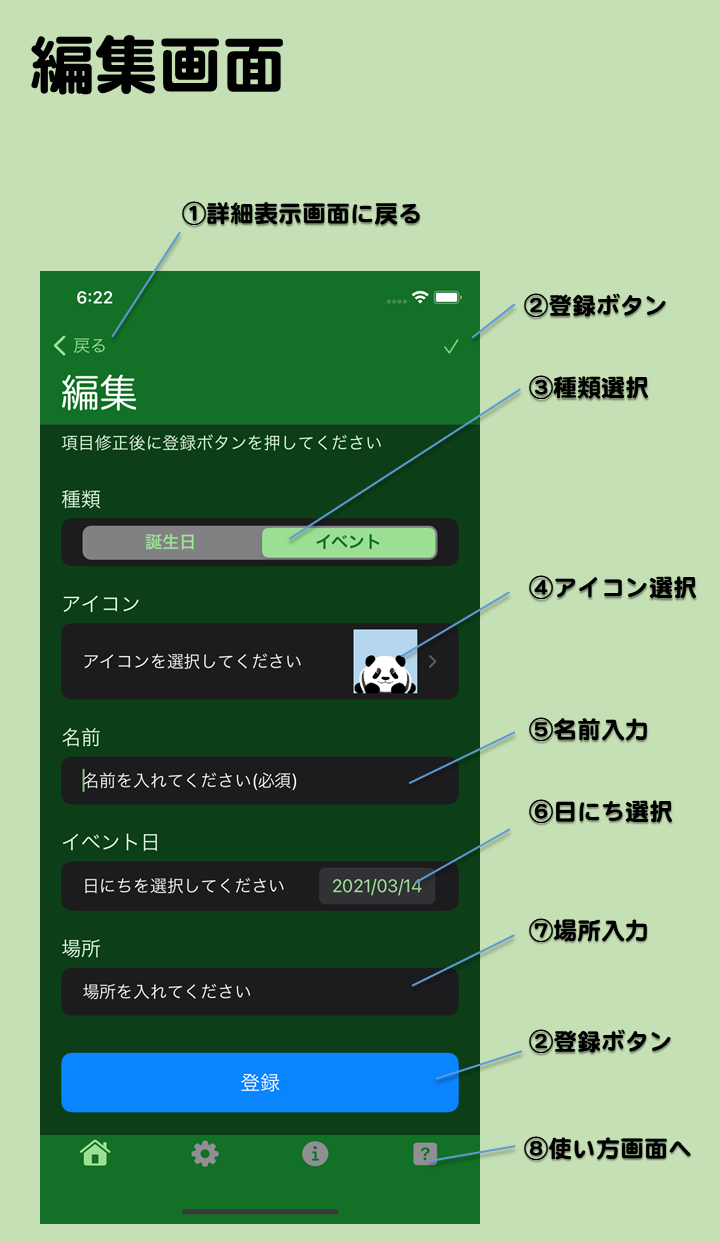
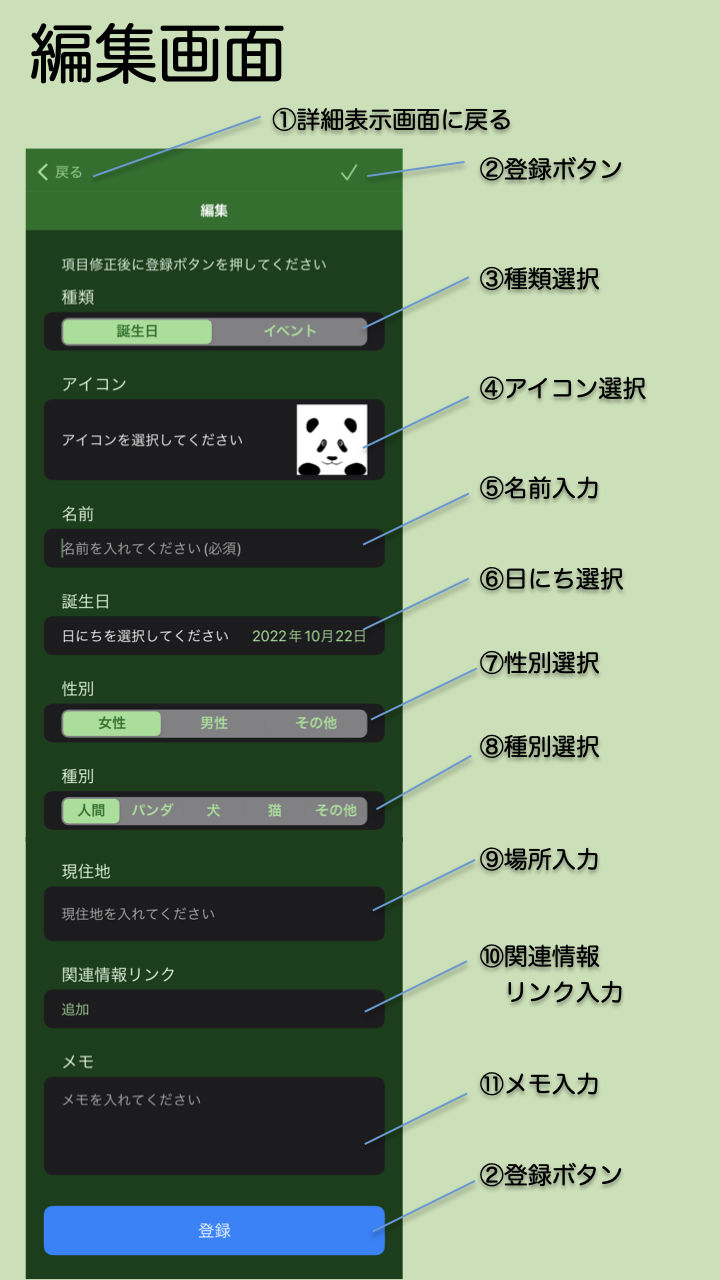
update panda birthday online manual v3.3

diff --git a/pandabirthday/v3_3/help_addPage.html b/pandabirthday/v3_3/help_addPage.html
@@ -43,26 +43,6 @@
   <body id="body">
     <p></p>
     <img src="help_addpage.png" usemap="#ImageMap" alt="add page image" title="add_page ">
-    <map name="ImageMap">
-      <area shape="rect" coords="171,187,432,249" href="#1" alt="" />
-      <area shape="rect" coords="46,301,229,355" href="#1" alt="" />
-      <area shape="rect" coords="504,262,698,328" href="#2" alt="" />
-      <area shape="rect" coords="402,310,463,369" href="#2" alt="" />
-      <area shape="rect" coords="47,467,445,541" href="#3" alt="" />
-      <area shape="rect" coords="500,384,715,465" href="#3" alt="" />
-      <area shape="rect" coords="48,576,442,671" href="#4" alt="" />
-      <area shape="rect" coords="509,509,717,592" href="#4" alt="" />
-      <area shape="rect" coords="49,687,446,780" href="#5" alt="" />
-      <area shape="rect" coords="508,637,718,720" href="#5" alt="" />
-      <area shape="rect" coords="43,802,445,879" href="#6" alt="" />
-      <area shape="rect" coords="513,745,718,820" href="#6" alt="" />
-      <area shape="rect" coords="43,901,444,983" href="#7" alt="" />
-      <area shape="rect" coords="520,852,723,921" href="#7" alt="" />
-      <area shape="rect" coords="49,1007,452,1076" href="#2" alt="" />
-      <area shape="rect" coords="520,938,727,1021" href="#2" alt="" />
-      <area shape="rect" coords="358,1097,448,1148" href="#9" alt="" />
-      <area shape="rect" coords="504,1069,724,1138" href="#8" alt="" />
-    </map>
     <dl>
     <dt>新規登録画面とは</dt>
     <dd>メイン画面で追加ボタンをタップして移動してくる画面です。ユーザーが自分で好きな情報を登録できます。</dd>
@@ -70,12 +50,11 @@
       <dt>画面の説明</dt>
       <dd></dd>
       <dt name="1">①メイン画面に戻る</dt>
-      <dd>情報登録を中断してメイン画面に戻ります。情報登録したい場合は画面下の登録ボタンを押してください。</dd>
+      <dd>情報登録をキャンセルしてメイン画面に戻ります。情報登録したい場合は②登録ボタンを押してください。</dd>
       <dt name="2">②登録ボタン</dt>
-      <dd>ページ内の情報を入力した後にこのボタンをタップして情報を登録します。情報が登録されたら自動的にメイン画面に戻ります。</dd>
+      <dd>ページ内の情報を入力した後にこのボタンをタップして情報を登録します。情報が登録されたらメイン画面に戻ります。</dd>
       <dt>③種類選択</dt>
-      <dd>まず情報の種類を選択します。誕生日あるいはイベント（記念日など）のいずれかを選びます。誕生日を選んだ場合は入力項目に性別選択と種別選択が増えます。</dd>
-      <dd>種別選択でパンダもしくは犬、猫を選んだ場合は、人間年齢に換算した年齢を詳細画面で表示できます。</dd>
+      <dd>まず情報の種類を選択します。誕生日あるいはイベント（記念日など）のいずれかを選びます。誕生日を選んだ場合は入力項目に⑦性別選択と⑧種別選択が増えます。</dd>
       <dt>④アイコン選択</dt>
       <dd>メイン画面や詳細情報画面で表示されるアイコンを選びます。</dd>
       <dd>アイコン右下の✖印をタップするとそのアイコンを削除できます。</dd>
@@ -84,10 +63,17 @@
       <dd>情報を示す名前を入力します。既にある情報と同じ名前は登録できません。</dd>
       <dt>⑥日にち選択</dt>
       <dd>カレンダーを表示して年月日を選択します。</dd>
-      <dt>⑦場所入力</dt>
+      <dt>⑦性別選択</dt>
+      <dd>性別を選択します。③種類選択で誕生日を選んだ場合に表示されます。</dd>
+      <dt>⑧種別選択</dt>
+      <dd>パンダもしくは犬、猫を選んだ場合は、人間年齢に換算した年齢を詳細画面で表示できます。③種類選択で誕生日を選んだ場合に表示されます。</dd>
+      <dt>⑨場所入力</dt>
       <dd>現在いる場所もしくはイベントの場所を入力します。メイン画面でグルーピングに「場所」を選んだ時に同じ場所がまとめられて表示されます。</dd>
-      <dt>⑧使い方画面へ</dt>
-      <dd>この使い方画面を表示します。</dd>
+      <dt>⑩関連情報リンク入力</dt>
+      <dd>ネット上の関連情報のサイトにリンクしたいときにそのURLとタイトルを入力できます。追加ボタンを押してから、タイトルとURLを入力します。</dd>
+      <dd>削除したい時は左にドラッグして表示される削除ボタンを押して下さい。</dd>
+      <dt>⑪メモ入力</dt>
+      <dd>メモを入力できます。</dd>
     </dl>
   </body>
 </html>

diff --git a/pandabirthday/v3_3/help_editPage.html b/pandabirthday/v3_3/help_editPage.html
@@ -49,23 +49,30 @@
       <dt>画面の説明</dt>
       <dd></dd>
       <dt>①詳細情報画面に戻る</dt>
-      <dd>情報登録を中断して詳細情報画面に戻ります。修正した情報を登録したい場合は画面下の登録ボタンを押してください。</dd>
+      <dd>情報登録をキャンセルして詳細情報画面に戻ります。修正した情報を登録したい場合は画面下の登録ボタンを押してください。</dd>
       <dt>②登録ボタン</dt>
-      <dd>ページ内の情報を入力した後にこのボタンをタップして情報を登録します。情報が登録されたら自動的に詳細情報画面に戻ります。</dd>
+      <dd>ページ内の情報を入力した後にこのボタンをタップして情報を登録します。情報が登録されたら詳細情報画面に戻ります。</dd>
       <dt>③種類選択</dt>
-      <dd>まず情報の種類を選択します。誕生日あるいはイベント（記念日など）のいずれかを選びます。誕生日を選んだ場合は入力項目に性別選択と種別選択が増えます。</dd>
+      <dd>まず情報の種類を選択します。誕生日あるいはイベント（記念日など）のいずれかを選びます。誕生日を選んだ場合は入力項目に⑦性別選択と⑧種別選択が増えます。</dd>
       <dt>④アイコン選択</dt>
-      <dd>メイン画面や詳細情報画面で表示されるアイコンを変更します。</dd>
+      <dd>メイン画面や詳細情報画面で表示されるアイコンを選びます。</dd>
       <dd>アイコン右下の✖印をタップするとそのアイコンを削除できます。</dd>
-      <dd>画像追加を選ぶとアイコンを追加できます。登録ずみアイコンから選ぶか、写真アルバムから選ぶことができます。</dd>
+      <dd>画像追加を選ぶとアイコンを追加できます。登録済みアイコンから選ぶか、写真アルバムから選ぶことができます。</dd>
       <dt>⑤名前入力</dt>
       <dd>情報を示す名前を入力します。既にある情報と同じ名前は登録できません。</dd>
       <dt>⑥日にち選択</dt>
       <dd>カレンダーを表示して年月日を選択します。</dd>
-      <dt>⑦場所入力</dt>
+      <dt>⑦性別選択</dt>
+      <dd>性別を選択します。③種類選択で誕生日を選んだ場合に表示されます。</dd>
+      <dt>⑧種別選択</dt>
+      <dd>パンダもしくは犬、猫を選んだ場合は、人間年齢に換算した年齢を詳細画面で表示できます。③種類選択で誕生日を選んだ場合に表示されます。</dd>
+      <dt>⑨場所入力</dt>
       <dd>現在いる場所もしくはイベントの場所を入力します。メイン画面でグルーピングに「場所」を選んだ時に同じ場所がまとめられて表示されます。</dd>
-      <dt>⑧使い方画面へ</dt>
-      <dd>タップするとこの使い方画面を表示します。</dd>
+      <dt>⑩関連情報リンク入力</dt>
+      <dd>ネット上の関連情報のサイトにリンクしたいときにそのURLとタイトルを入力できます。追加ボタンを押してから、タイトルとURLを入力します。</dd>
+      <dd>削除したい時は左にドラッグして表示される削除ボタンを押して下さい。</dd>
+      <dt>⑪メモ入力</dt>
+      <dd>メモを入力できます。</dd>
     </dl>
   </body>
 </html>
